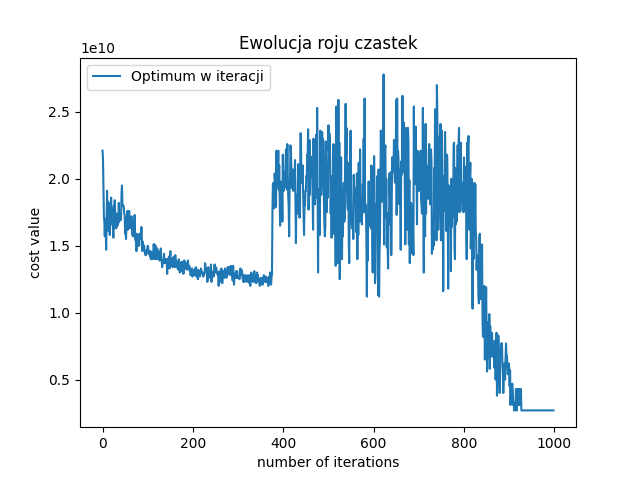
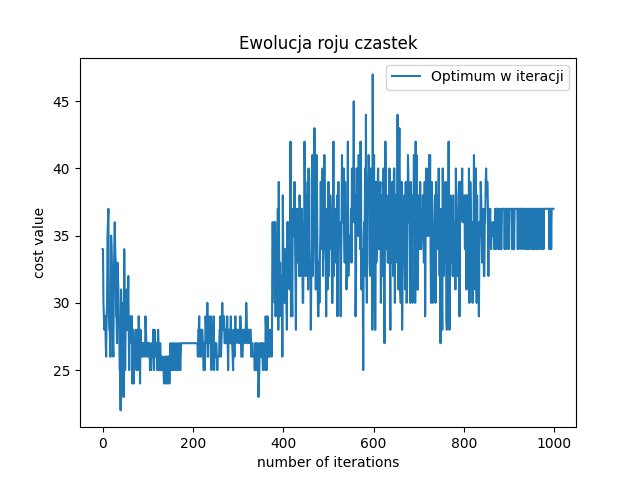
Update generator

diff --git a/da/scheduleIsValid.py b/da/scheduleIsValid.py
@@ -1,59 +1,125 @@
-# # take in an array??
+import pandas as pd
 # from numpy import array
-#
-#
-# def check_schedule:
-#     if array[0] == 4:
-#         off_in_2_weeks += 1
-#
-#     for i in range(0, n - 1):
-#         # round to int?
-#         array[i + 1] = round(array[i + 1])
-#         prev = array[i]
-#         current = array[i + 1]
-#
-#         # Circular? E-1 D-2 L-3 O-4?
-#         if current < 1:
-#             current = 4 - abs(current) % 4
-#         elif current > 4:
-#             current = current % 4
-#
-#         if current == 4:
-#             off_in_2_weeks += 1
-#             if (i + 1) % 7 == 0:
-#                 # min/max of shifts per week required??
-#                 if off_in_2_weeks < 7 or off_in_2_weeks > 7:
-#                     return False
-#
-#                 off_in_2_weeks = 0
-#
-#             # Min consecutive day off 2??
-#             if prev != 4:
-#                 counter = count_consec(array, i + 1, 4)
-#                 if counter < 2 or counter > 5:
-#                     return False
-#         else:
-#             # L cannot be followed by anything other than O, D not followed by E
-#             if (prev == 3 and current != 4) or (prev == 2 and current == 1):
-#                 return False
-#
-#             # Max consecutive shifts 5, min 2
-#             if prev == 4 and current != 4:
-#                 counter = count_consec(array, i + 1, 1)
-#                 if counter < 2 or counter > 5:
-#                     return False
-#
-#
-# def count_consec(array, start, sign):
-#     index = start
-#     counter = 0
-#     if sign == 4:
-#         while array[index] == 4:
-#             counter += 1
-#             index += 1
-#     else:
-#         while array[index] != 4:
-#             counter += 1
-#             index += 1
-#
-#     return counter
+import numpy as np
+
+df_days_off = pd.read_csv("./data/SECTION_DAYS_OFF.csv")
+df_shift = pd.read_csv("./data/SECTION_SHIFTS.csv")
+df_staff = pd.read_csv("./data/SECTION_STAFF.csv")
+df_cover = pd.read_csv("./data/SECTION_COVER.csv")  # soft
+
+def schedule_validation(nurse_schedule, nurseID):
+    if days_off_validation(nurse_schedule, nurseID) and staff_validation(nurse_schedule, nurseID):
+        return True
+    else:
+        return False
+
+def days_off_validation(nurse_schedule, nurseID):
+    # days_off
+    for _, row in df_days_off.iterrows():
+        employee = row['EmployeeID_num']
+        day_off = row['DayIndexes(startatzero)']
+
+        # check with nurse schedule
+        if employee == nurseID:
+            if nurse_schedule[day_off] != 3:
+                return False
+    return True
+
+# Check min/max minutes, weekends, shifts, consecutive days off and working days
+def staff_validation(nurse_schedule, nurseID):
+    number_of_days = len(nurse_schedule[0])  # number of days
+
+    nurse = nurse_schedule
+    max_total_minutes = df_staff.at[nurseID, 'MaxTotalMinutes']
+    min_total_minutes = df_staff.at[nurseID, 'MinTotalMinutes']
+    max_consecutive_shifts = df_staff.at[nurseID, 'MaxConsecutiveShifts']
+    min_consecutive_shifts = df_staff.at[nurseID, 'MinConsecutiveShifts']
+    min_consecutive_days_off = df_staff.at[nurseID, 'MinConsecutiveDaysOff']
+    max_weekends = df_staff.at[nurseID, 'MaxWeekends']
+    max_evening_shift = df_staff.at[nurseID, 'MaxShifts_1']
+    max_day_shift = df_staff.at[nurseID, 'MaxShifts_0']
+    max_late_shift = df_staff.at[nurseID, 'MaxShifts_2']
+    for i in range(0, number_of_days - 1):
+        # round to int?
+        # nurse[i + 1] = round(nurse[i + 1])
+        prev = nurse[i]
+        current = nurse[i + 1]
+
+        # D-0 E-1 L-2 O-3
+        # Check if min consecutive day off <= 2
+        if min_consecutive_days_off == 2:
+            if current == 3:
+                if prev != 3:
+                    # counter = count_consec(array, i + 1, 4)
+                    if current == number_of_days - 1:
+                        return False
+                    if nurse[current + 1] != 3:
+                        return False
+                    # if counter < 2:
+                    #     return False
+
+        # Check L cannot be followed by anything other than O,
+        # Check D not followed by E
+        if (prev == 2 and current != 3) or (prev == 0 and current == 1):
+            return False
+
+        # Check Max consecutive shifts >= 2 && <= 5
+        if prev == 3 and current != 3:
+            counter = count_consecutive_working_days(nurse, i + 1)
+            if counter < min_consecutive_shifts \
+                    or counter > max_consecutive_shifts:
+                return False
+
+    # Check working minutes
+    total_working_time = 0
+    for i in range(0, number_of_days):
+        if nurse[i] != 3:
+            total_working_time += 720
+
+    if total_working_time < min_total_minutes:
+        return False
+    if total_working_time > max_total_minutes:
+        return False
+
+    # Check max number of shifts
+    count_day = 0
+    count_evening = 0
+    count_late = 0
+    # D-0 E-1 L-2 O-3
+    for i in range(0, number_of_days):
+        if nurse[i] == 0:
+            count_day += 1
+            if count_day > max_day_shift:
+                return False
+        if nurse[i] == 1:
+            count_evening += 1
+            if count_evening > max_evening_shift:
+                return False
+        if nurse[i] == 2:
+            count_late += 1
+            if count_late > max_late_shift:
+                return False
+
+    # Check max weekends
+    # index 5&6, 12&13,19&21, at least we have 7 days in matrix
+    current_Satuarday_index = 5
+    current_Sunday_index = 6
+    count_weekend = 0
+    while current_Sunday_index <= number_of_days - 1:
+        if nurse[current_Satuarday_index] != 3 \
+                or nurse[current_Sunday_index] != 3:
+            count_weekend += 1
+        if count_weekend > max_weekends:
+            return False
+        current_Satuarday_index += 7
+        current_Sunday_index += 7
+    return True
+
+
+def count_consecutive_working_days(array, start):
+    index = start  # current day index
+    counter = 0
+    while array[index] != 3:
+        counter += 1
+        index += 1
+    return counter

diff --git a/da/da.py b/da/da.py
@@ -3,6 +3,7 @@ import matplotlib.pyplot as plt
 import math
 from softConstraintsCost import costCalculator
 from hardConstraintsValidation import hard_constraints_validation
+from scheduleIsValid import schedule_validation
 
 _beta = 1.5
 _sigma = 0.6966
@@ -61,8 +62,17 @@ def _random_population(lbd, choices=[0, 1, 2, 3], n=20):
     # return a n*lbd(row*col) size matrix with every element in [0,ubd)
     # will need to change to discrete
     # return np.random.random((n, lbd.size)) * (ubd - lbd) + lbd
+    # meet requirement for hard constraints
     return np.random.choice(choices, (n, lbd.size))
 
+def _population(lbd, choices=[0, 1, 2, 3]):
+    init_pos = []
+    for i in range(0, 20):
+        pos = np.random.choice(choices, (1, lbd.size))
+        while not schedule_validation(pos, i):
+            pos = np.random.choice(choices, (1, lbd.size))
+        init_pos.append(pos)
+    return init_pos
 
 def _get_neighbours_matrix(pos, radius, agents):
     t = np.abs(pos - pos[:, np.newaxis]) < radius
@@ -91,7 +101,7 @@ def _border_reflection(pos, lbd, ubd):
     return pos
 
 
-def dragonfly_algorithm(function, agents, lbd, ubd, iteration, param_fun=_variable_param, plot=True):
+def dragonfly_algorithm(function,validation, agents, lbd, ubd, iteration, param_fun=_variable_param, plot=True):
     ###OFF=-1,D = 0, E = 1, L=2
     ###lbd = -1 * np.ones(dim)
     ###upd = 2 * np.ones(dim)
@@ -102,7 +112,8 @@ def dragonfly_algorithm(function, agents, lbd, ubd, iteration, param_fun=_variab
     n_shape = (agents, agents, 1)
 
     vel_max = (ubd - lbd) / 6.0  # TODO Need tuning a bit to see if velocity will fit in discrete
-    pos = _random_population(lbd)
+    # pos = _random_population(lbd)
+    pos = _population(lbd)
     vel = _random_population(lbd)
     # TODO pos and vel validation to check if hard constraints are voilated from Shufei
     ## caculate the cost of each agents
@@ -173,6 +184,7 @@ def dragonfly_algorithm(function, agents, lbd, ubd, iteration, param_fun=_variab
         vel = np.round(vel)
 
         pos = pos.astype("float64")
+        pre_pos = pos
         pos[neighbours_cnt_gt_0] += vel[neighbours_cnt_gt_0]  # Eq. 3.7
         levy = _levy(dim, neighbours_cnt_eq_0.size)
         # amplify levy to a higher number range
@@ -185,7 +197,10 @@ def dragonfly_algorithm(function, agents, lbd, ubd, iteration, param_fun=_variab
         # Map all res to [0,1,2,3]
 
         pos = np.ceil(pos).astype("int32")
-        pos = pos % 4
+        if not validation(pos):
+            pos = pre_pos
+        else:
+            pos = pos % 4
 
         # Prepare to next iteration, save data
         values = function(pos)
@@ -227,7 +242,7 @@ def main():
     iteration = 1000
     lbd = 0 * np.ones(dim)
     upd = 3 * np.ones(dim)
-    dragonfly_algorithm(costCalculator, agents, lbd, upd, iteration)
+    dragonfly_algorithm(costCalculator, hard_constraints_validation, agents, lbd, upd, iteration)
 
 
 if __name__ == "__main__":

diff --git a/da/softConstraintsCost.py b/da/softConstraintsCost.py
@@ -40,7 +40,7 @@ def costCalculator(df_nurse_schedule):
                  shiftOnRequest(df_nurse_schedule, nurse_cost) + \
                  cover(df_nurse_schedule, nurse_cost)
     # cost =  offcost.add(oncost)
-    hard_constraints_validation(df_nurse_schedule, nurse_cost)
+    #hard_constraints_validation(df_nurse_schedule, nurse_cost)
     cost = convertNurseCost(nurse_cost)
     return cost
 
@@ -144,6 +144,7 @@ def hard_constraints_validation(nurse_schedule, nurse_cost):
     # if days_off_validation(nurse_schedule) and staff_validation(nurse_schedule) and cover_validation(nurse_schedule):
     days_off_validation(nurse_schedule, nurse_cost)
     staff_validation(nurse_schedule, nurse_cost)
+    # cover_hard(nurse_schedule, nurse_cost)
 
 
 # Check if the approved day-off is scheduled with shift for each nurse
@@ -156,6 +157,25 @@ def days_off_validation(nurse_schedule, nurse_cost):
         nurse = nurse_schedule[employee]  # 1 row, 14 columns
         if nurse[day_off] != 3:
             nurse_cost[employee][day_off] += 99999999
+
+
+def cover_hard(nurse_schedule, nurse_cost):
+    for dayIndex in range(len(nurse_schedule[0])): # 0 -13
+        day_schedule = nurse_schedule[:, [dayIndex]]
+        day = 0
+        evening = 0
+        late = 0
+        for nurse in day_schedule:
+            if nurse == 0:
+                day += 1
+            if nurse == 1:
+                evening += 1
+            if nurse == 2:
+                late += 1
+        if day == 0 or evening == 0 or late == 0:
+            for i in range(len(nurse_cost)):
+                if day_schedule[i] == 3:
+                    nurse_cost[i][dayIndex] += 99999999
 
 
 # Check min/max minutes, weekends, shifts, consecutive days off and working days
@@ -174,7 +194,7 @@ def staff_validation(nurse_schedule, nurse_cost):
         max_evening_shift = df_staff.at[j, 'MaxShifts_1']
         max_day_shift = df_staff.at[j, 'MaxShifts_0']
         max_late_shift = df_staff.at[j, 'MaxShifts_2']
-        for i in range(0, number_of_days - 1): # i: 0 - 12
+        for i in range(0, number_of_days - 1):  # i: 0 - 12
             # round to int?
             # nurse[i + 1] = round(nurse[i + 1])
             prev = nurse[i]
@@ -229,7 +249,7 @@ def staff_validation(nurse_schedule, nurse_cost):
             if nurse[i] == 1:
                 count_evening += 1
                 if count_evening > max_evening_shift:
-                    nurse_cost[j][i] +=99999999
+                    nurse_cost[j][i] += 99999999
             if nurse[i] == 2:
                 count_late += 1
                 if count_late > max_late_shift:

diff --git a/da/hardConstraintsValidation.py b/da/hardConstraintsValidation.py
@@ -4,13 +4,12 @@ import pandas as pd
 # from numpy import array
 import numpy as np
 from sklearn import preprocessing
-from softConstraintsCost import  costCalculator
+from softConstraintsCost import costCalculator
 
 df_days_off = pd.read_csv("./data/SECTION_DAYS_OFF.csv")
 df_shift = pd.read_csv("./data/SECTION_SHIFTS.csv")
 df_staff = pd.read_csv("./data/SECTION_STAFF.csv")
 df_cover = pd.read_csv("./data/SECTION_COVER.csv")  # soft
-
 
 
 def hard_constraints_validation(nurse_schedule):
@@ -20,6 +19,7 @@ def hard_constraints_validation(nurse_schedule):
         return True
     else:
         return False
+
 
 # Check if the approved day-off is scheduled with shift for each nurse
 def days_off_validation(nurse_schedule):
@@ -32,6 +32,7 @@ def days_off_validation(nurse_schedule):
         if nurse[day_off] != 3:
             return False
     return True
+
 
 # Check min/max minutes, weekends, shifts, consecutive days off and working days
 def staff_validation(nurse_schedule):
